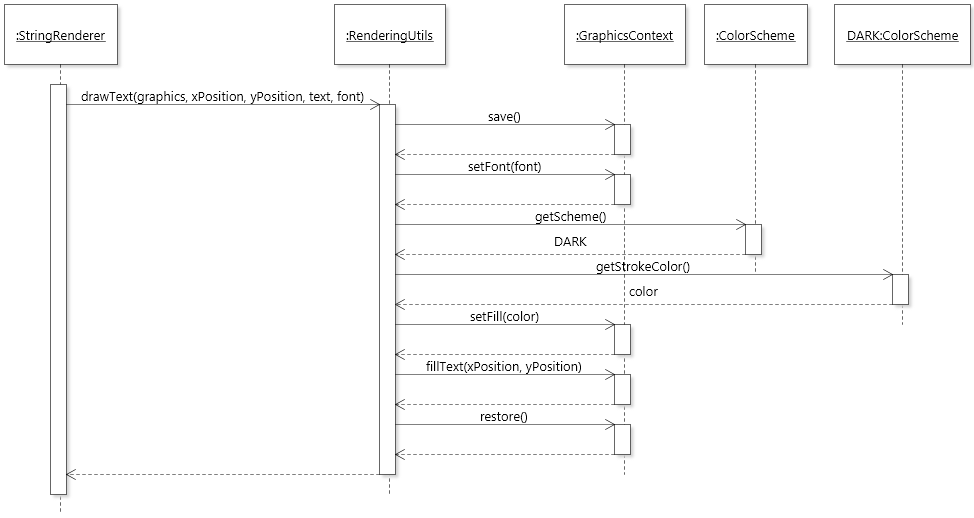
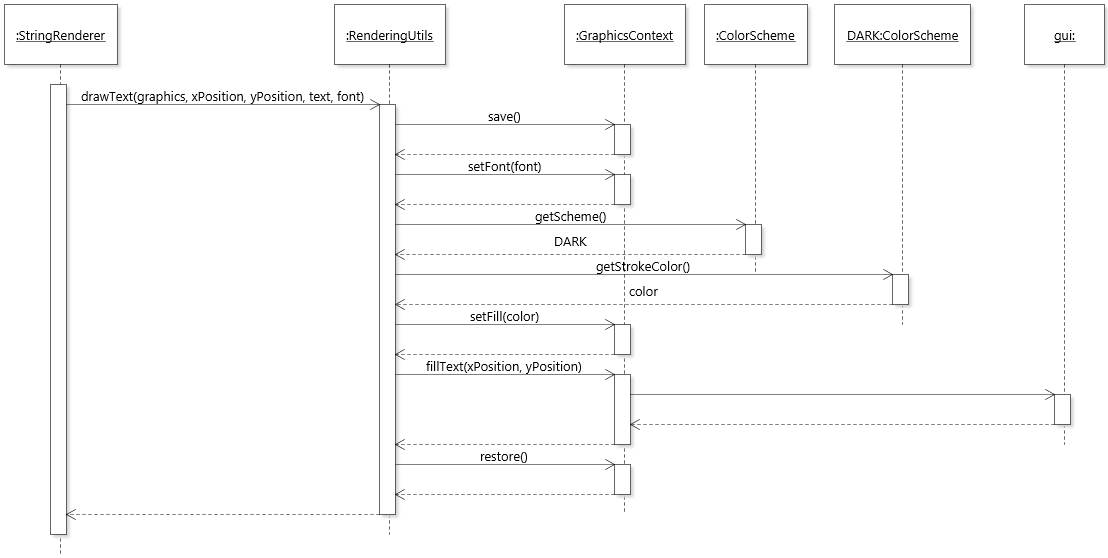
[#538] Edit #3 of document.

diff --git a/docs/functional/DarkMode.md b/docs/functional/DarkMode.md
@@ -6,13 +6,13 @@ The Dark Mode feature concerns the components which define the color scheme, the
 
 ## Design
 
-There are two components that define the color scheme of the dark mode for the application: `ColorScheme`, an enum class, and a CSS file called `DarkMode.css`. Then, there are the scene graph components the color schemes are applied to. The graph components can also be categorized into two: the `Canvas` (and its diagram elements), and everything else. The everything else refers to components such as the `WelcomeTab`, `MenuBar`, and `ToolBar` - basically, everything that is outside the `Canvas`. Though broad, this is an appropriate categorization because the color scheme of the first is handled by `ColorScheme`, and the latter by `DarkMode.css`.
+There are two components that define the color scheme of the dark mode for the application: `ColorScheme`, an enum class, and a CSS file called `DarkMode.css`. Then, there are the scene graph components the color schemes are applied to. The graph components can also be categorized into two parts: the `Canvas` (and its diagram elements), and everything else. The everything else refers to components such as the `WelcomeTab`, `MenuBar`, and `ToolBar` - basically, everything that is outside the `Canvas`. Though broad, this is an appropriate categorization because the color scheme of the first is handled by `ColorScheme`, and the latter by `DarkMode.css`.
 
 ### Scene Graph
 
-In JavaFX, CSS is applied to `Node` objects hierarchically. That is, once CSS is applied to a `Node`, the styling will cascade down to all its children nodes. Thus, coloring all graph components following a specific color scheme is a simple feat. It is done by adding the CSS file to the `Scene`, the top level container of the application.
+In JavaFX, CSS is applied to `Node` objects hierarchically. That is, when CSS is applied to a `Node`, the styling will cascade down to all its children nodes. Thus, coloring all graph components following a specific color scheme is a simple feat. It is done by adding the CSS file to the `Scene`, the top level container of the application.
  
-In JetUML, the CSS file is `DarkMode.css`, and it is applied to the scene of the JetUML application stage, and `DialogStage` by adding the path of the CSS file using `Stage#getScene().getStylesheets().add(String)`. The following defines the `root` style class in `DarkMode.css`:
+In JetUML, the CSS file is `DarkMode.css`, and it is applied to the `Scene` of the JetUML application stage and `DialogStage` by adding the path of the CSS file through `getStylesheets().add(String)`. The following defines the `root` style class in `DarkMode.css`:
 
 ```css
 .root 
@@ -25,7 +25,7 @@ In JetUML, the CSS file is `DarkMode.css`, and it is applied to the scene of the
 }
 ```
 
-CSS style classes can be implemented in two ways, and both are used in `DarkMode.css`. One way is to use predefined JavaFX names mapped to CSS names. For instance, the `root` style class and its properties with the prefix `-fx-` are predefined JavaFX names derived from CSS names, and together, they provide the overall default colors for a node. Simply defining the style class and adding the stylesheet is enough. The other way is to define a custom style class. This requires an extra step, and the style class needs to be added by calling `Node#getStyleClass().add(String)` on the `Node` which requires the specific styling. 
+CSS style classes can be implemented in two ways, and both are used in `DarkMode.css`. One way is to use predefined JavaFX names mapped to CSS names. For instance, the `root` style class and its properties with the prefix `-fx-` are predefined JavaFX names derived from CSS names, and together, they provide the overall default colors for a node. Simply defining the style class and adding the stylesheet is enough. The other way is to define a custom style class. This requires an extra step, and the style class needs to be added by calling `getStyleClass().add(String)` on the `Node` which requires the specific styling. 
 
 ### Canvas and Diagram Elements
 
@@ -51,17 +51,15 @@ public enum ColorScheme
 }
 ```
 
-The following sequence diagram shows how `ColorScheme` and `GraphicsContext` is used to render text in diagrams:
+The following sequence diagram shows how `ColorScheme` and `GraphicsContext` is used to render text in dark mode:
 
 ![JetUML Sequence Diagram](DarkMode.sequence.png)
 
 
-1. A StringRenderer object calls RenderingUtils#drawText. 
-2. The attributes of the GraphicsContext is saved.
-3. The font is set.
-4. The fill color is obtained by first retrieving the current ColorScheme (LIGHT or DARK), which depends on the user setting, and getting the stroke color of the text. In the case of text, its fill color is the stroke color of the ColorScheme.
-5. The text is rendered.
-6. The attributes of the GraphicsContext is restored to its state before the operation.
+1. The text to be rendered is processed by `StringRenderer`, and this results in a call to `RenderingUtils#drawText` to calibrate the `GraphicsContext` attributes to the user setting, and perform the rendering onto the gui. 
+2. The `save()` method saves the attributes of the `GraphicsContext` onto a stack. This easily allows restoring the state of the `GraphicsContext` after making changes to it. 
+3. The middle section involving `ColorScheme` represents a key operation that is repeated whenever diagram elements are rendered. To render text (or any diagram element) in the correct color, the color scheme that the user has selected needs to be first obtained by a call to `ColorScheme#getScheme()`. Because it is the color of the text that is needed, `getStrokeColor()` is called, but it can be easily replaced by any of the other getters depending on the diagram element.
+4. The text is rendered, and the `GraphicsContext` is restored to its state when `save()` was called.
 	
 ### Tool Bar
 
@@ -81,11 +79,10 @@ private void recreateButtonIcons()
 					toolButton.getPrototype().isPresent() )
 			{
 				button.setGraphic(aDiagramRenderer.createIcon(toolButton.getPrototype().get()));
-				contextMenuItems.get(i).setGraphic(aDiagramRenderer.createIcon
-				(toolButton.getPrototype().get()));
+				contextMenuItems.get(i).setGraphic(aDiagramRenderer.createIcon(toolButton.getPrototype().get()));
 			}
 		}
 	}
 ```
 
-The method collects all the buttons in `DiagramTabToolBar` and `ContextMenu`, and creates a new `Canvas` instance for the icon of each `SelectableToolButton`. 
+To summarize, the method collects all the buttons in `DiagramTabToolBar` and `ContextMenu`, and creates a new `Canvas` instance for the icon of each button. 
